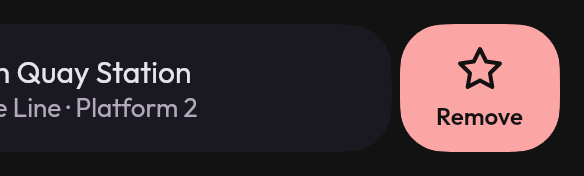
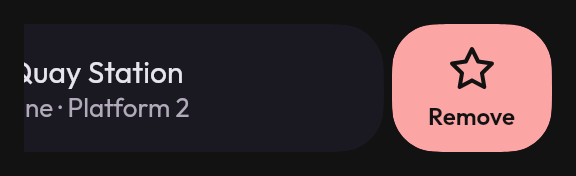
SwipeActions: a swiped row is clipped to its own sides
Reported from the messages app's two panes: a chat swiped open on Pin drew
its avatar, name and time past the end of the list pane and over the
conversation beside it. It was the library's. The row slides inside
`SwipeActions` by an offset, and nothing in `SwipeActions` clipped the
slide, so a swiped row was cut off only by whatever stood round it. On a
phone that is the screen's edge, which is why it never showed there. A
`LazyColumn` clips its rows along its scroll and not across it, so in a
pane, a card or a dialog narrower than the window the row drew outside.

The box the row slides in now clips its content to its sides, across
only, since the row moves no other way. It is a `clipRect` in the draw
rather than `clipToBounds()`, so a list of rows does not take a graphics
layer apiece. At rest it cuts nothing: the row already clips to its own
shape inside the box, and the actions are laid out within it.

Not the pane scaffold's to clip, and the app does nothing unusual: the list
is a `LazyColumn` of `listSection` rows in `ListDetailPaneScaffold`'s
start pane. `TwoPane` leaves its panes unclipped, and Navigation 3's
`paneBackMotion` relies on that: the detail moves sideways with a back
gesture and casts its shade over the seam. A pane clipped to its bounds
would cut both, and still leave a swiped row drawing outside a card.

`SwipeActionClipTest` puts a 200dp column of list on a coloured ground and
opens a row each way, then checks that every pixel of the ground on both
[…]

diff --git a/ui-catalog/src/jvmTest/kotlin/io/kontour/ui/catalog/SwipeActionClipTest.kt b/ui-catalog/src/jvmTest/kotlin/io/kontour/ui/catalog/SwipeActionClipTest.kt
@@ -1,0 +1,131 @@
+package io.kontour.ui.catalog
+
+import androidx.compose.foundation.background
+import androidx.compose.foundation.layout.Box
+import androidx.compose.foundation.layout.fillMaxHeight
+import androidx.compose.foundation.layout.fillMaxSize
+import androidx.compose.foundation.layout.fillMaxWidth
+import androidx.compose.foundation.layout.padding
+import androidx.compose.foundation.layout.width
+import androidx.compose.ui.Alignment
+import androidx.compose.ui.Modifier
+import androidx.compose.ui.graphics.Color
+import androidx.compose.ui.unit.dp
+import io.kontour.icons.tabler.Tabler
+import io.kontour.icons.tabler.outline.Archive
+import io.kontour.icons.tabler.outline.Pin
+import io.kontour.ui.components.list.ListItem
+import io.kontour.ui.components.list.SwipeAction
+import io.kontour.ui.components.list.SwipeActions
+import io.kontour.ui.components.list.SwipeValue
+import io.kontour.ui.components.list.rememberSwipeActionsState
+import java.awt.image.BufferedImage
+import kotlin.math.abs
+import kotlin.test.Test
+import kotlin.test.assertTrue
+
+/**
+ * A swiped row draws inside its own row, wherever the row is placed.
+ *
+ * Reported from the messages app's two panes: a chat swiped open on its Pin
+ * action carried its avatar, its name and its time past the end of the list
+ * pane and over the conversation beside it. The row slides inside
+ * `SwipeActions` and nothing in the row clipped the slide, so it was cut off
+ * only by whatever happened to stand round it: the edge of the screen on a
+ * phone, and nothing at all in a pane, a card or a dialog narrower than the
+ * window.
+ *
+ * Read from the pixels: a column of list on a coloured ground, a row in it
+ * swiped open each way, and the ground on both sides of the column the same
+ * colour from top to bottom while it is.
+ */
+class SwipeActionClipTest {
+
+    private companion object {
+        const val Width = 720
+        const val Height = 200
+        const val Density = 2
+        const val ListWidth = 200
+        const val Inset = 16
+        val Beside = Color(0xFF2266CC)
+        val Page = Color.White
+        val Pin = Color(0xFF8822CC)
+        val Archive = Color(0xFFCC2222)
+    }
+
+    private fun swiped(to: SwipeValue): BufferedImage =
+        Scene(width = Width, height = Height, density = Density.toFloat(), reduceMotion = true) {
+            // The neighbours are the ground, not boxes drawn after the column,
+            // as a pane beside a list is: a box drawn on top would cover the
+            // row whether it was clipped or not.
+            Box(Modifier.fillMaxSize().background(Beside)) {
+                Box(
+                    Modifier
+                        .align(Alignment.Center)
+                        .width(ListWidth.dp)
+                        .fillMaxHeight()
+                        .background(Page)
+                        .padding(vertical = Inset.dp),
+                ) {
+                    SwipeActions(
+                        start = listOf(SwipeAction(label = "Pin", icon = Tabler.Outline.Pin, onAction = {}, background = Pin)),
+                        end = listOf(
+                            SwipeAction(label = "Archive", icon = Tabler.Outline.Archive, onAction = {}, background = Archive),
+                        ),
+                        state = rememberSwipeActionsState(initialValue = to),
+                        modifier = Modifier.fillMaxWidth(),
+                    ) {
+                        ListItem(onClick = {}) {
+                            +"Sam Whitlock"
+                            supporting { +"See you at the station" }
+                            trailing { +"Yesterday" }
+                        }
+                    }
+                }
+            }
+        }.use { it.frames(40) }
+
+    private fun BufferedImage.at(x: Int, y: Int): Color = Color(getRGB(x, y)).copy(alpha = 1f)
+
+    private fun near(a: Color, b: Color) =
+        abs(a.red - b.red) < 0.1f && abs(a.green - b.green) < 0.1f && abs(a.blue - b.blue) < 0.1f
+
+    /** The column of list, in pixels: centred, [ListWidth] wide. */
+    private val listLeft = (Width - ListWidth * Density) / 2
+    private val listRight = listLeft + ListWidth * Density
+
+    /** Every pixel of the ground on either side of the column that is not [Beside]. */
+    private fun BufferedImage.drawnOnTheGround(): List<Pair<Int, Int>> = buildList {
+        for (y in 0 until height) {
+            for (x in 0 until width) {
+                if (x in listLeft until listRight) continue
+                if (at(x, y) != Beside) add(x to y)
+            }
+        }
+    }
+
+    private fun BufferedImage.shows(colour: Color): Boolean =
+        (0 until height).any { y -> (listLeft until listRight).any { x -> near(at(x, y), colour) } }
+
+    private fun assertInsideItsRow(to: SwipeValue, action: Color, towards: String) {
+        val image = swiped(to)
+        assertTrue(
+            image.shows(action),
+            "the row's action never showed, so it was not swiped open and this measured nothing",
+        )
+        val outside = image.drawnOnTheGround()
+        assertTrue(
+            outside.isEmpty(),
+            "a row swiped $towards drew ${outside.size} pixels outside its column, the first at " +
+                "${outside.firstOrNull()}: the slide is not clipped to the row, and a row in a pane draws over the pane beside it",
+        )
+    }
+
+    @Test
+    fun aRowSwipedOpenOnItsStartActionsStaysInItsColumn() =
+        assertInsideItsRow(SwipeValue.Start, Pin, "towards the trailing edge")
+
+    @Test
+    fun aRowSwipedOpenOnItsEndActionsStaysInItsColumn() =
+        assertInsideItsRow(SwipeValue.End, Archive, "towards the leading edge")
+}

diff --git a/ui/src/commonMain/kotlin/io/kontour/ui/components/list/SwipeActions.kt b/ui/src/commonMain/kotlin/io/kontour/ui/components/list/SwipeActions.kt
@@ -51,6 +51,7 @@ import androidx.compose.ui.Alignment
 import androidx.compose.ui.Modifier
 import androidx.compose.ui.draw.clip
 import androidx.compose.ui.draw.drawWithCache
+import androidx.compose.ui.draw.drawWithContent
 import androidx.compose.ui.geometry.Offset
 import androidx.compose.ui.graphics.Color
 import androidx.compose.ui.graphics.Path
@@ -59,6 +60,7 @@ import androidx.compose.ui.graphics.Shape
 import androidx.compose.ui.graphics.StrokeCap
 import androidx.compose.ui.graphics.StrokeJoin
 import androidx.compose.ui.graphics.drawscope.Stroke
+import androidx.compose.ui.graphics.drawscope.clipRect
 import androidx.compose.ui.graphics.graphicsLayer
 import androidx.compose.ui.graphics.vector.ImageVector
 import androidx.compose.ui.input.pointer.PointerEventPass
@@ -781,6 +783,19 @@ fun SwipeActions(
         modifier = modifier
             .fillMaxWidth()
             .onSizeChanged { width = it.width.toFloat() }
+            // **The row slides inside this box and is cut off at its sides**, so
+            // a swiped row is never drawn outside its own row. Nothing here
+            // clipped the slide, and a row was cut off only by whatever stood
+            // round it: the edge of the screen on a phone, and nothing at all
+            // in a list pane, where the messages app's chats carried their
+            // avatar, name and time over the conversation beside the list. A
+            // list does not clip its rows across, only along its scroll.
+            //
+            // Across only, because the row only moves across; and in the draw
+            // rather than as a layer, so a list of rows takes no layer apiece.
+            .drawWithContent {
+                clipRect(top = -size.height, bottom = size.height * 2f) { this@drawWithContent.drawContent() }
+            }
             // A press anywhere else closes it, and a press on this row closes
             // any other that is open, with or without an `OverlayHost` round
             // the app to see every press: `onPressOutside` reports this row's

diff --git a/ui-catalog/src/jvmTest/kotlin/io/kontour/ui/catalog/SwipeActionGroupShapeTest.kt b/ui-catalog/src/jvmTest/kotlin/io/kontour/ui/catalog/SwipeActionGroupShapeTest.kt
@@ -89,9 +89,11 @@ class SwipeActionGroupShapeTest {
         // Its top, read well clear of the corner and above the icon.
         val top = (0 until image.height).first { isAction(image.at(right - Clear, it)) }
         val actionCorner = image.at(right - In, top + In)
-        // The row: slid off the leading edge, so it runs from the screen's
-        // left to the first of the page.
-        val rowRight = (0 until image.width).first { image.at(it, midY) == Page } - 1
+        // The row: slid off its own leading edge and cut off there, so it runs
+        // from the margin to the first of the page. From the screen's left, as
+        // this read it while a swiped row drew past its edge, finds the page
+        // in the margin at once: see `SwipeActionClipTest`.
+        val rowRight = (Margin * Density until image.width).first { image.at(it, midY) == Page } - 1
         val rowCorner = image.at(rowRight - In, top + In)
         return actionCorner to rowCorner
     }

diff --git a/ui-docs/content/changelog.md b/ui-docs/content/changelog.md
@@ -181,6 +181,12 @@ On `main`, and in the next release.
 
 ### Fixed
 
+- **A swiped row stays inside its row.** A
+  [`SwipeActions`](components/swipe-actions.md) row slid open drew whatever it
+  carried past its own edge, cut off only by what stood round it: the screen on
+  a phone, and nothing in a list pane, where a chat swiped open on Pin drew its
+  avatar, name and time over the conversation beside the list. The slide is
+  clipped to the row's sides now.
 - **A sheet opening with the keyboard rises with it.** A field focused as a
   sheet opened made the sheet stand still for the whole of the keyboard's
   slide, then come up after it, while the page behind receded, came forward
